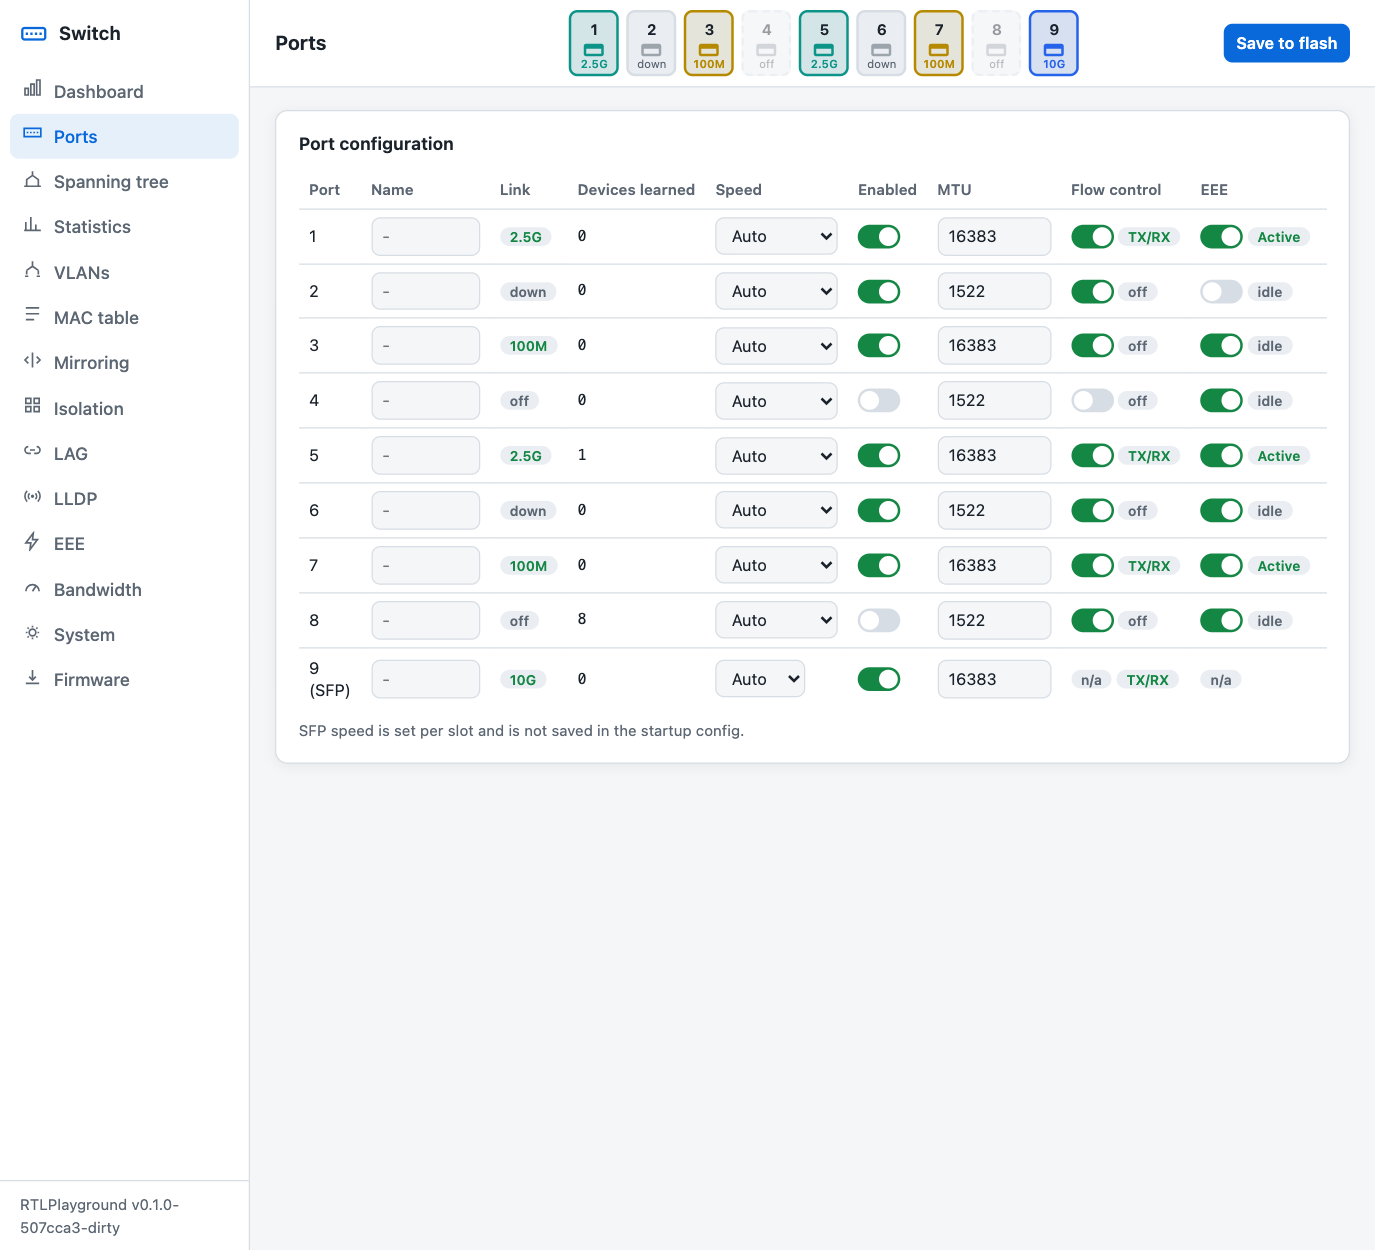
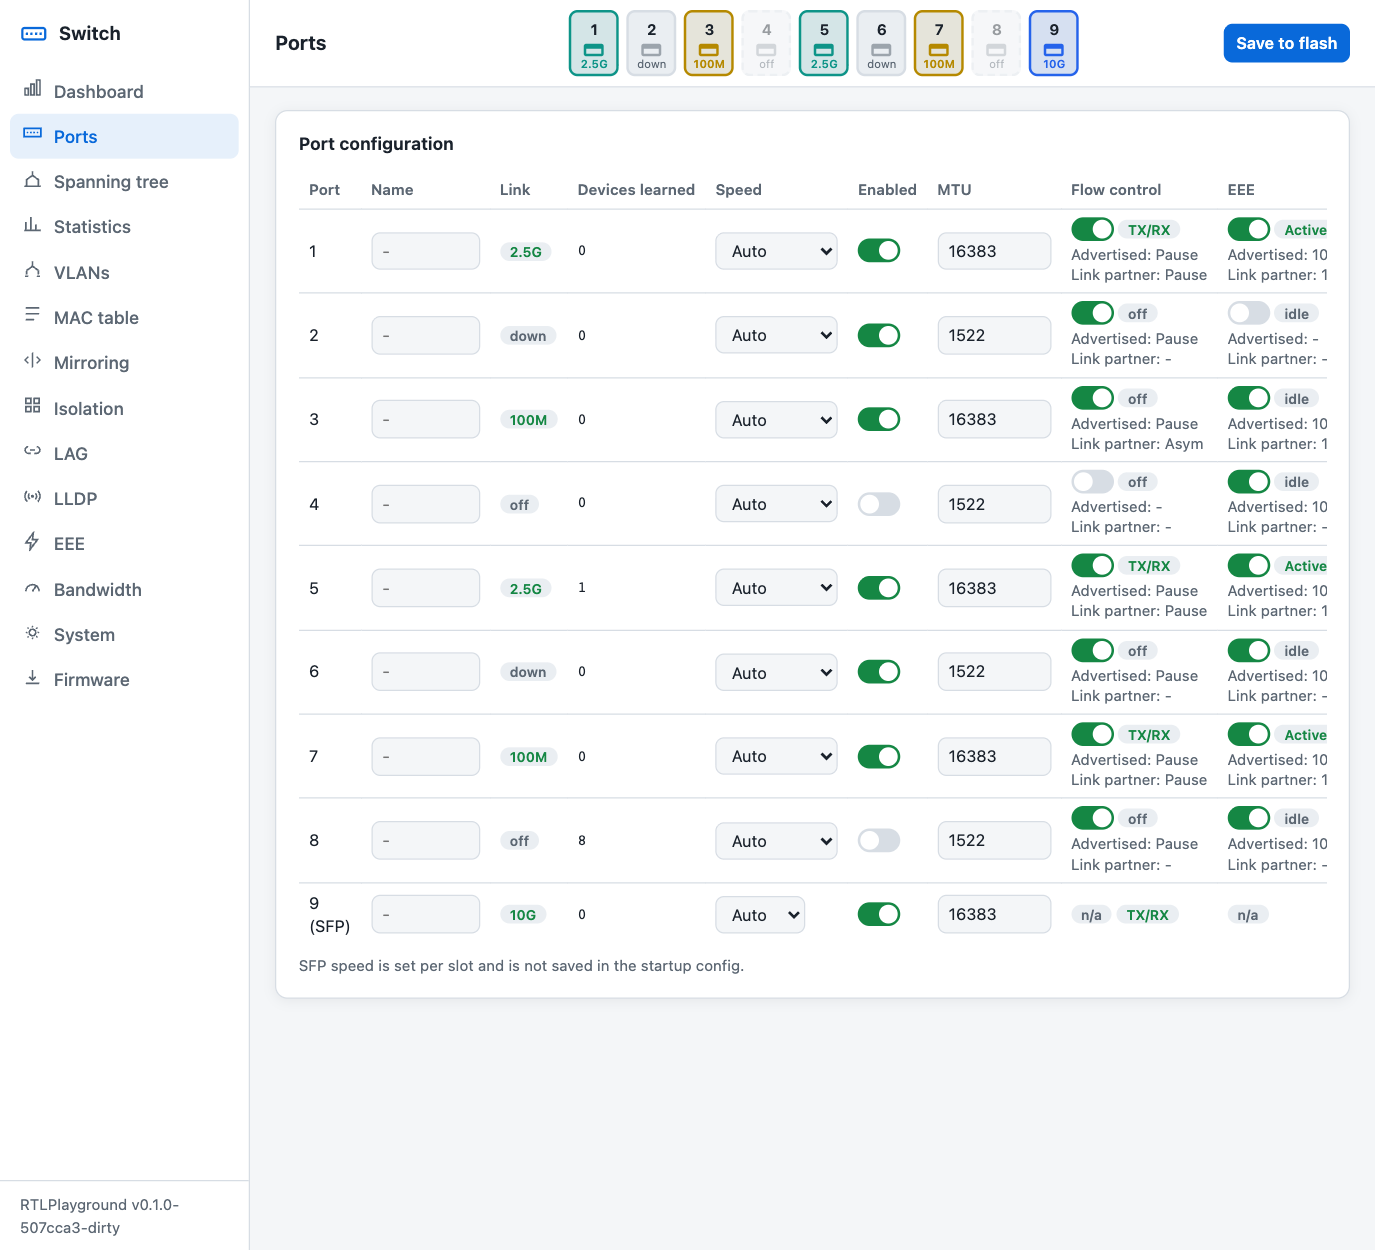
Mock-up: show all flags in A and B, add card layout E and phone renders

diff --git a/html/mockup.js b/html/mockup.js
@@ -50,28 +50,72 @@ function clearExtras(){
 }
 
 var VARIANTS={
-  // A: two columns, toggle plus live state; details stay in the port pop-up
+  // A: one column per feature: switch plus live state, advertised/partner flags underneath
   A:function(){
     setHead(BASE.map(function(s){return[s]}).concat([[t("nav_fc")],[t("nav_eee")],[""]]));
+    function sub(a,b){return h("div",{class:"small mut",style:"margin-top:3px;line-height:1.35",html:esc(t("e_adv"))+": "+esc(a)+"<br>"+esc(t("e_lp"))+": "+esc(b)})}
     S.ports.forEach(function(p){
+      var f=FC[p.portNum],e=EEE[p.portNum];
       baseRow($("ptable").tBodies[0],p,{before:function(tr){
-        cellWith(tr,p.isSFP?[badge(t("e_na"))," ",fcNeg(p)]:[sw(FC[p.portNum]&1)," ",fcNeg(p)]);
-        cellWith(tr,p.isSFP?[badge(t("e_na"))]:[sw(parseInt(EEE[p.portNum].adv,2))," ",eeeSt(p)]);
+        var c=cellWith(tr,p.isSFP?[badge(t("e_na"))," ",fcNeg(p)]:[sw(f&1)," ",fcNeg(p)]);
+        if(!p.isSFP)c.appendChild(sub(fcFlags(f&3),fcFlags(f>>2&3)));
+        c=cellWith(tr,p.isSFP?[badge(t("e_na"))]:[sw(parseInt(e.adv,2))," ",eeeSt(p)]);
+        if(!p.isSFP)c.appendChild(sub(eeeFlags(e.adv),eeeFlags(e.lp)));
       }});
     });
   },
-  // B: grouped header, separate state/enable sub-columns
+  // B: grouped headers, every flag in its own column (both current pages side by side)
   B:function(){
-    setHead(BASE.map(function(s){return[s,{rowspan:2}]}).concat([[t("nav_fc"),{colspan:2,style:"text-align:center;border-bottom:0"}],[t("nav_eee"),{colspan:2,style:"text-align:center;border-bottom:0"}],["",{rowspan:2}]]),
-      [t("fc_neg"),t("c_enabled"),t("e_active"),t("c_enabled")]);
+    var g={colspan:4,style:"text-align:center;border-bottom:0;border-left:1px solid var(--bd)"};
+    setHead(BASE.map(function(s){return[s,{rowspan:2}]}).concat([[t("nav_fc"),g],[t("nav_eee"),g],["",{rowspan:2}]]),
+      [t("e_adv"),t("e_lp"),t("fc_neg"),t("c_enabled"),t("e_adv"),t("e_lp"),t("e_active"),t("c_enabled")]);
+    var r2=$("ptable").tHead.rows[1].cells;r2[0].style.borderLeft=r2[4].style.borderLeft="1px solid var(--bd)";
     S.ports.forEach(function(p){
+      var f=FC[p.portNum],e=EEE[p.portNum],dash=function(){return h("span",{class:"mut",text:"-"})};
       baseRow($("ptable").tBodies[0],p,{before:function(tr){
+        cellWith(tr,[p.isSFP?"-":fcFlags(f&3)]).style.borderLeft="1px solid var(--bd)";
+        cellWith(tr,[p.isSFP?"-":fcFlags(f>>2&3)]);
         cellWith(tr,[fcNeg(p)]);
-        cellWith(tr,[p.isSFP?h("span",{class:"mut",text:"-"}):sw(FC[p.portNum]&1)]);
+        cellWith(tr,[p.isSFP?dash():sw(f&1)]);
+        cellWith(tr,[p.isSFP?"-":eeeFlags(e.adv)]).style.borderLeft="1px solid var(--bd)";
+        cellWith(tr,[p.isSFP?"-":eeeFlags(e.lp)]);
         cellWith(tr,[eeeSt(p)]);
-        cellWith(tr,[p.isSFP?h("span",{class:"mut",text:"-"}):sw(parseInt(EEE[p.portNum].adv,2))]);
+        cellWith(tr,[p.isSFP?dash():sw(parseInt(e.adv,2))]);
       }});
     });
+  },
+  // E: one card per port instead of a table row; aimed at phones
+  E:function(){
+    setHead(BASE.map(function(s){return[s]}).concat([[""]]));
+    var wrap=$("ptable").closest(".scrollx");wrap.style.display="none";
+    var list=h("div",{class:"mockx",style:"display:grid;grid-template-columns:repeat(auto-fill,minmax(300px,1fr));gap:10px"});
+    function kv(k,v){return[h("span",{class:"mut small",text:k}),typeof v==="string"?h("span",{html:v}):v]}
+    function grid(rows,cols){var g=h("div",{style:"display:grid;grid-template-columns:"+(cols||"auto 1fr")+";gap:6px 10px;align-items:center"});rows.forEach(function(r){kv(r[0],r[1]).forEach(function(e){g.appendChild(e)})});return g}
+    function sec(title,on,state,rows,sfp){
+      var body=h("div",{style:"line-height:1.35"});
+      rows.forEach(function(r){body.appendChild(h("div",{class:"mut small",text:r[0]}));body.appendChild(h("div",{style:"margin-bottom:4px",text:r[1]}))});
+      return h("div",{style:"min-width:0"},[
+        h("div",{style:"display:flex;gap:6px;align-items:center;flex-wrap:wrap;font-weight:600;margin-bottom:4px"},[sfp?h("span",{html:badge(t("e_na"))}):sw(on),h("span",{text:title}),h("span",{html:state})]),
+        body]);
+    }
+    S.ports.forEach(function(p){
+      var i=p.portNum-1,f=FC[p.portNum],e=EEE[p.portNum];
+      var spd=h("select",{class:"in"});
+      (p.isSFP?SFPRATES:SPEEDS).forEach(function(o){spd.appendChild(h("option",{value:o[0],text:speedLabel(o[1])}))});
+      var mtu=h("input",{class:"in",type:"number",style:"width:100%;box-sizing:border-box",value:i%2?"1522":"16383"});
+      spd.style.width="100%";
+      list.appendChild(h("div",{style:"border:1px solid var(--bd);border-radius:8px;padding:10px 12px"},[
+        h("div",{style:"display:flex;gap:8px;align-items:center;margin-bottom:8px"},[
+          h("b",{style:"white-space:nowrap",text:t("c_port")+" "+p.portNum+(p.isSFP?" (SFP)":"")}),h("span",{html:linkBadge(p)}),
+          h("span",{class:"mut small",text:t("pt_conn")+": "+(parseInt(p.macs,16)&0x1fff)}),
+          h("span",{style:"flex:1"}),sw(p.enabled),h("button",{class:"ctl",text:t("c_apply")})]),
+        grid([[t("c_name"),h("input",{class:"in",style:"width:100%;box-sizing:border-box",placeholder:"-"})],[t("pt_speed"),spd],[t("pt_mtu"),mtu]]),
+        h("div",{style:"display:grid;grid-template-columns:1fr 1fr;gap:12px;border-top:1px solid var(--bd);padding-top:8px;margin-top:8px"},[
+          sec(t("nav_fc"),f&1,fcNeg(p),[[t("e_adv"),p.isSFP?"-":fcFlags(f&3)],[t("e_lp"),p.isSFP?"-":fcFlags(f>>2&3)]],p.isSFP),
+          sec(t("nav_eee"),parseInt(e.adv,2),eeeSt(p),[[t("e_adv"),p.isSFP?"-":eeeFlags(e.adv)],[t("e_lp"),p.isSFP?"-":eeeFlags(e.lp)]],p.isSFP)]),
+      ]));
+    });
+    wrap.after(list);
   },
   // C: Ports page keeps its table; a second card on the same page merges the EEE and flow control pages
   C:function(){
